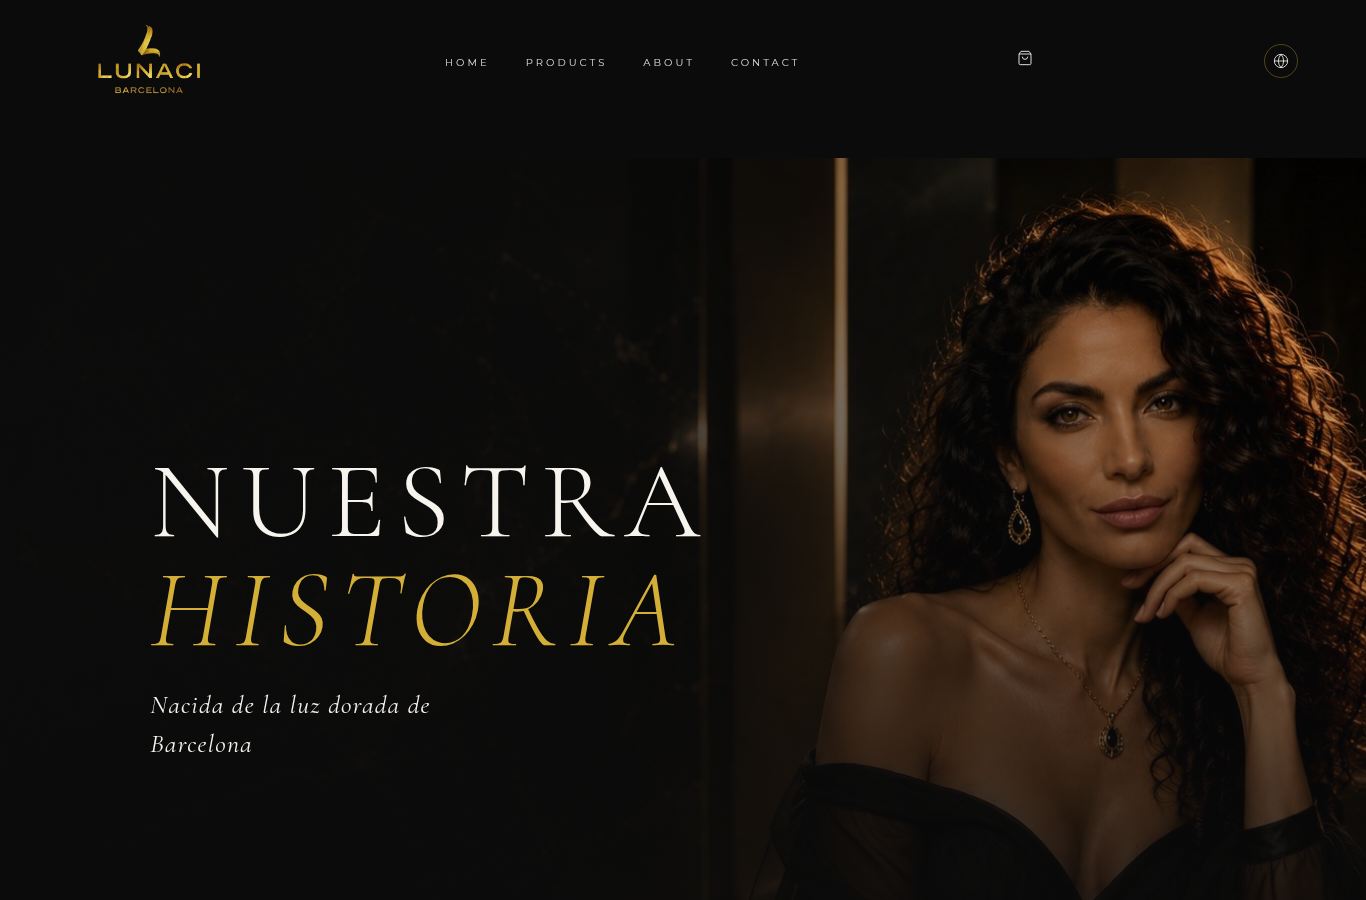
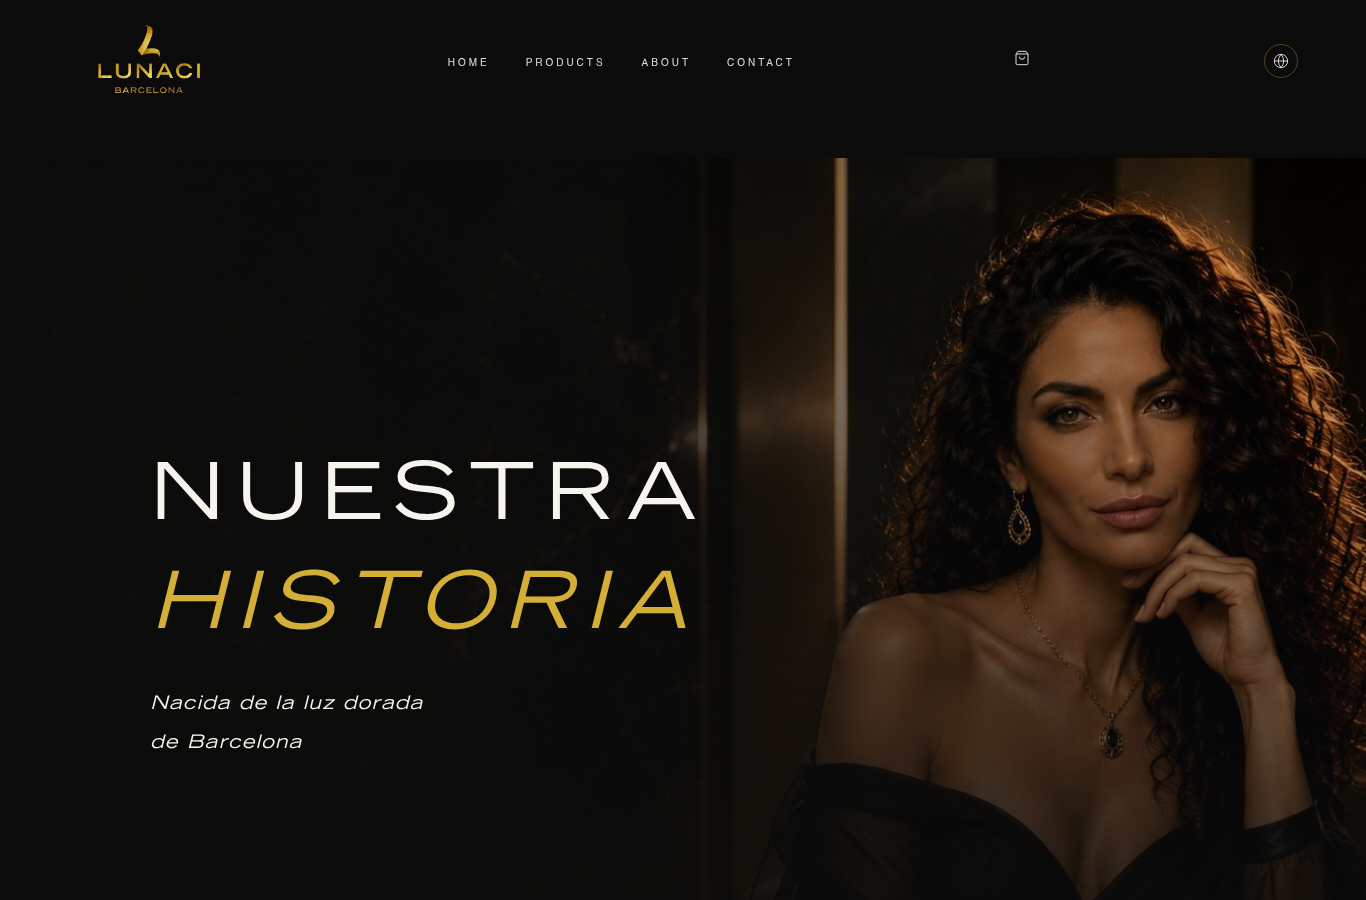
Spanish About: applied; scope live check to the page widget; execution log
Claude-Session: https://claude.ai/code/session_01FnPdXHTrnMcZTpuHEpah72

diff --git a/seo/ABOUT_ES_DRAFT.md b/seo/ABOUT_ES_DRAFT.md
@@ -1,4 +1,4 @@
-# Spanish About page (/es/about-us-es/ → /es/sobre-nosotros/)
+# Spanish About page (/es/about-us-es/ → /es/sobre-nosotros/) — applied live 2026-10-05, run 37352508744
 
 ## What was wrong (live page, 2026-10-05)
 - The H1 was in English ("Our Story"), and so was the hero subtitle ("Born from the golden light of Barcelona").
@@ -56,3 +56,15 @@
 - The Spanish home footer links its categories to the English category pages and links About through the 301. This is the front page, which falls under the hard rule.
 - The English About page quote reads "All women are seen. Yet your presence is remembered." The official tagline is "Every woman is seen. But your presence is remembered."
 - The English About page also contains "less, when done perfectly", and "perfect" is forbidden.
+
+## Execution log
+1. **Dry-run 1:** planned edits to posts 774 and 775. Both are revisions, and 775 is a front-page revision. The script was changed to edit published pages only.
+2. **Apply, run 37352091965:** the HTML widget was sanitised on save.
+   - The cause: `update_post_meta()` and `wp_update_post()` ran under WP-CLI without a user that has `unfiltered_html`.
+   - What was stripped: the cart SVG, part of the inline styles, and the `<script>` tags, so the script body showed as text at the end of the page.
+   - The script's md5 verification flagged it.
+3. **Rollback, run 37352399459:** posts 680, 770 and 771 were restored byte for byte from the backup, with the original widget md5 and slug. All rollback checks passed.
+4. **Apply, run 37352508744:** this time the script wrote directly to the database.
+   - The stored widget is byte-identical to the reviewed file.
+   - Live checks: H1, Spanish copy, hreflang, canonical, title, the 301, the updated links on Contacto and Productos, and the English page unchanged.
+   - The one failed check was "All rights reserved". It comes from the theme's sitewide `#site-footer`, outside this page. The check is now scoped to the page's own widget.
